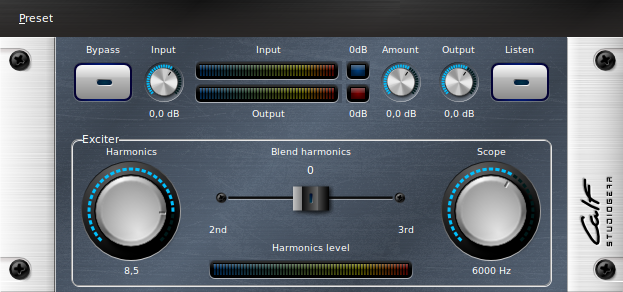
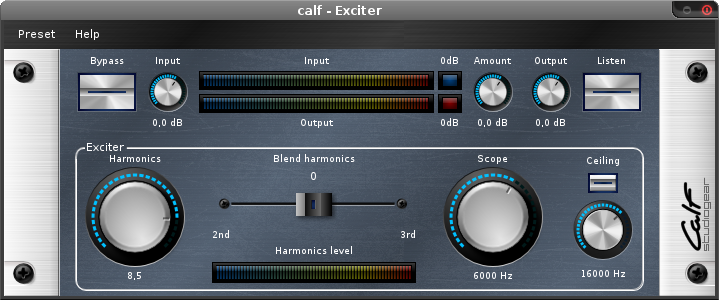
Manual updates from Markus.

diff --git a/doc/manuals/Multiband Limiter.html b/doc/manuals/Multiband Limiter.html
@@ -17,8 +17,12 @@
             </p>
             <h2>Tipps</h2>
             <p>
-                With the <strong>weight</strong> coefficient you can give importance to signals you don't want to loose in the limiting process. E.g. if your high-mid band (containing most of the vocals) starts fading in the background from now and then turn up its weight to let other bands process the gain reduction for reaching the desired limit. Your vocals will remain in the foreground even if heavy gain reduction is necessary. Values below zero will remove weight from a band and means "prefer this band when it comes to harder limitation". The weighting is affecting all bands equally, so setting all knobs to 1 has the same effect as having them all set to 0 - that is to say none.
+                With the <strong>weight</strong> coefficient you can give importance to signals you don't want to loose in the limiting process. E.g. if your high-mid band (containing most of the vocals) starts fading in the background from now and then turn up its weight to let other bands process the gain reduction for reaching the desired limit. Your vocals will remain in the foreground even if heavy gain reduction is necessary. Values below zero will remove weight from a band and means "prefer this band for gain reduction when it comes to harder limitation". The weighting is affecting all bands equally, so setting all knobs to 1 has the same effect as having them all set to 0 - that is to say none.
             </p>
+            <p>
+                The <strong>ASC</strong> (Automatic Smoothing Control) produces soft gain reduction even if the signal is reduced permanently. Normally the release time would try to reduce the gain reduction to 0 in the set time while a steady reduction (because of hard limiting) needs a release time to the average gain reduction instead of no gain reduction. The result is a slightly smoother signal even on heavy gain reduction. Control the ASC effect via the ASC Level setting. ASC depends on your release time settings and slightly extends the desired time value depending on the average gain reduction. Disabling ASC will result in a slightly higher loudness for the cost of some smoothness. It may be preferred on harsher material.
+            </p>
+
             <h2>Controls</h2>
             <ul>
                 <li><strong>Input (knob):</strong> Raise the volume before the signal is sent in the compression stage. If you have found some great settings but want to raise the overall loudness of the track simply increase this level.</li>
@@ -28,7 +32,7 @@
                 <li><strong>0dB (LED):</strong> Flashes if the level of the output signal raises above 0dB (it may clip your signal depending on your host and your systems' bitrate!)</li>
                 <li><strong>Output (knob):</strong> Raise the overall volume after the compression stage</li>
                 <li><strong>Bypass:</strong> Don't process anything, just bypass the signal</li>
-                
+
                 <li><strong>Split:</strong> Frequency to split between these strips</li>
                 <li><strong>S:</strong> Separate or overlap the frequencies of the neighbour bands</li>
                 <li><strong>Q:</strong> Raise the center frequency</li>
@@ -36,6 +40,8 @@
                 <li><strong>Lookahead:</strong> The Limiter will reach its attenuation level in this amount of time (output will be delayed two times this time)</li>
                 <li><strong>Min Release:</strong>Don't let the release time fall beneath 2.5 times the lowest possible wavelength per band</li>
                 <li><strong>Release:</strong> Come back from limiting to attenuation 1.0 in this amount of milliseconds</li>
+                <li><strong>ASC:</strong> When gain reduction is always needed ASC takes care of releasing to an average reduction level rather than reaching a reduction of 0 in the release time</li>
+                <li><strong>ASC Level:</strong> Select how much the release time is affected by ASC, 0 means nearly no changes in release time while 1 produces higher release times</li>
                 <li><strong>Release (per strip):</strong> Coefficient the master release time is computed with to have separate release times for each strip</li>
                 <li><strong>Weight:</strong> The "importance" of this strip in the resulting signal</li>
                 <li><strong>Solo:</strong> Hear single (or more) bands exclusively to set the crossover and the release times exactly</li>

diff --git a/doc/manuals/Bass Enhancer.html b/doc/manuals/Bass Enhancer.html
@@ -12,21 +12,33 @@
             <a href="images/Calf - Bass Enhancer.png" title="Calf - Bass Enhancer" class="thickbox"><img class="thumbnail" src="images/Calf - Bass Enhancer.png" /></a>
             <h2>Functionality</h2>
             <p>
-                
+                A Bass Enhancer is used to produce very low sound that is not present in the original signal. This is done by creating harmonic distortions of the signal which are restricted in range and added to the original signal. A Bass Enhancer raises the lower end of an audio signal without simply raising the lower frequencies like an equalizer would do to create a more "fat" or "boomy" sound.
             </p>
             <h2>Tipps</h2>
-            <p>
-                
-            </p>
+            <ul>
+                <li>Use the enhancer in the master channel of your audio suite to bring some low end, bassy or full sound to your mix</li>
+                <li>Add back some bass to old digitalized recordings</li>
+                <li>Let your bassdrum microphone produce big and bassy boom</li>
+                <li>Listen closely to the harmonics to not create "muddy" or "rumbling" low frequency range</li>
+                <li>Use the floor to narrow down the lower end to the required range</li>
+            </ul>
             <h2>Controls</h2>
             <ul>
                 <li><strong>Bypass:</strong> Don't process anything, just bypass the signal</li>
-                <li><strong>Input:</strong> Control the input level before the signal is processed</li>
-                <li><strong>In L/In R:</strong> The level after the input knob</li>
+                <li><strong>Input (knob):</strong> Control the input level before the signal is processed</li>
+                <li><strong>Input (V/U meter):</strong> The level after the input knob</li>
                 <li><strong>0dB:</strong> Flashes if input level rises above 0dB</li>
-                <li><strong>Output:</strong> Control the output of the plugin - clipping could destroy your signal</li>
-                <li><strong>Out L/Out R:</strong> The level after processing and after the output knob</li>
+                <li><strong>Output (knob):</strong> Control the output of the plugin - clipping could destroy your signal</li>
+                <li><strong>Output (V/U meter):</strong> The level after processing and after the output knob</li>
                 <li><strong>0dB:</strong> Flashes, if the signal rises about 0dB in the output stage</li>
+                <li><strong>Amount:</strong> The amount of harmonics added to the original signal</li>
+                <li><strong>Listen:</strong> Mute the original signal and listen to the harmonics exclusively</li>
+                <li><strong>Harmonics:</strong> The amount of newly created harmonics</li>
+                <li><strong>Blend Harmonics:</strong> The "colour" (or octave) of the harmonics</li>
+                <li><strong>Harmonics Level:</strong> The amount of created harmonics</li>
+                <li><strong>Scope:</strong> The frequency harmonics are produced above</li>
+                <li><strong>Floor (button):</strong> Constrain the enhancement on the lower end</li>
+                <li><strong>Floor (knob):</strong> The frequency no harmonics are produced below</li>
             </ul>
         </div>
     </body>

diff --git a/doc/manuals/Exciter.html b/doc/manuals/Exciter.html
@@ -12,21 +12,33 @@
             <a href="images/Calf - Exciter.png" title="Calf - Exciter" class="thickbox"><img class="thumbnail" src="images/Calf - Exciter.png" /></a>
             <h2>Functionality</h2>
             <p>
-                
+                An Exciter is used to produce high sound that is not present in the original signal. This is done by creating harmonic distortions of the signal which are restricted in range and added to the original signal. An Exciter raises the upper end of an audio signal without simply raising the higher frequencies like an equalizer would do to create a more "crisp" or "brilliant" sound.
             </p>
             <h2>Tipps</h2>
-            <p>
-                
-            </p>
+            <ul>
+                <li>Use the exciter in the master channel of your audio suite to bring some air, brilliance or brightness to your mix</li>
+                <li>Add back some brightness to old digitalized recordings</li>
+                <li>Let your overhead microphones project some shiny and crisp cymbals</li>
+                <li>Listen closely to the harmonics to not create "biting" or "nerving" high frequency range</li>
+                <li>Use the ceiling to narrow down the heights to the required range</li>
+            </ul>
             <h2>Controls</h2>
             <ul>
                 <li><strong>Bypass:</strong> Don't process anything, just bypass the signal</li>
-                <li><strong>Input:</strong> Control the input level before the signal is processed</li>
-                <li><strong>In L/In R:</strong> The level after the input knob</li>
+                <li><strong>Input (knob):</strong> Control the input level before the signal is processed</li>
+                <li><strong>Input (V/U meter):</strong> The level after the input knob</li>
                 <li><strong>0dB:</strong> Flashes if input level rises above 0dB</li>
-                <li><strong>Output:</strong> Control the output of the plugin - clipping could destroy your signal</li>
-                <li><strong>Out L/Out R:</strong> The level after processing and after the output knob</li>
+                <li><strong>Output (knob):</strong> Control the output of the plugin - clipping could destroy your signal</li>
+                <li><strong>Output (V/U meter):</strong> The level after processing and after the output knob</li>
                 <li><strong>0dB:</strong> Flashes, if the signal rises about 0dB in the output stage</li>
+                <li><strong>Amount:</strong> The amount of harmonics added to the original signal</li>
+                <li><strong>Listen:</strong> Mute the original signal and listen to the harmonics exclusively</li>
+                <li><strong>Harmonics:</strong> The amount of newly created harmonics</li>
+                <li><strong>Blend Harmonics:</strong> The "colour" (or octave) of the harmonics</li>
+                <li><strong>Harmonics Level:</strong> The amount of created harmonics</li>
+                <li><strong>Scope:</strong> The frequency harmonics are produced above</li>
+                <li><strong>Ceiling (button):</strong> Constrain the excitement on the upper end</li>
+                <li><strong>Ceiling (knob):</strong> The frequency no harmonics are produced above</li>
             </ul>
         </div>
     </body>

diff --git a/doc/manuals/About.html b/doc/manuals/About.html
@@ -14,15 +14,15 @@
             <p>
                 <strong>Calf Studiogear</strong> is designed to bring you a professional experience in music production to your free operating system. State-of-the-art effects and sound generators with a well designed user interface take open source audio processing to the next level.
                 <br/><br/>
-                The Calf plugins include all todays frequently used studio effects along with some feature-rich sound processors. As active development goes further this package will grow in functionality and {umfang}.
+                The Calf plugins include all todays frequently used studio effects along with some feature-rich sound processors. As active development goes further this package will grow in functionality over the time.
                 <br/><br/>
-                <strong>Calf Studiogear</strong> is designed to run under the most plugin standards in Linux, namely LV2, DSSI and LADSPA. So you're able to insert them in nearly every plugin-capable audio software like Ardour, Rosegarden and others.
+                <strong>Calf Studiogear</strong> is designed to run under the most flexible plugin standard in Linux, namely LV2. So you're able to insert them in lots of plugin-capable audio software like Ardour, Rosegarden and others.
                 <br/><br/>
                 The <strong>Calf Rack</strong> offers you all Calf effects and synthesizers in an easy-to-use studio rack. Wire the effects trough Jack to build your own studio environment and trigger the sound processors live or though a MIDI sequencer or tracker.
             </p>
             <div style="text-align:center"><img src="images/plugins.png" title="Calf plugins"/></div>
             <p>
-                <strong>Calf Studiogear</strong> is designed to be most flexible and wide-range in sound. That aspect sometimes decreases usability since all those one-knob-fits-all-effects are normally way to {beschränkt} in functionality and flexibility for professional audio production. Therefore Calf sometimes offers derivates with decreased but specialized functionality for a narrow range of jobs. Examples are the Exciter and Bass Enhancer plugs which are based on Saturator but offering a limited amount of control to make life easier on everyday tasks.
+                <strong>Calf Studiogear</strong> is designed to be most flexible and wide-range in sound. That aspect sometimes decreases usability since all those one-knob-fits-all-effects are normally way to restricted in functionality and flexibility for professional audio production. Therefore Calf sometimes offers derivates with decreased but specialized functionality for a narrow range of jobs. Examples are the Exciter and Bass Enhancer plugs which are based on Saturator but offering a limited amount of control to make life easier on everyday tasks.
                 <br/><br/>
                 The minimum or maximum settings of those derivates are mostly increased in range compared to commercial plugin suites to achieve a specialized interface with less limitations in usability and sound.
                 <br/><br/>
@@ -40,7 +40,7 @@
             </ul>
             <h2>Support</h2>
             <p>
-                
+
             </p>
             <h2>Participate</h2>
             <p>

diff --git a/doc/manuals/scripts/manual.js b/doc/manuals/scripts/manual.js
@@ -12,8 +12,8 @@ $(document).ready(function () {
         [
             "Synthesizer",
             [
-                ["(Organ)", "Organ.html", "images/Calf - Organ - Tone generator.png"],
-                ["(Monosynth)", "Monosynth.html", "images/Calf - Monosynth - Audio path.png"],
+                ["(Organ)", "Organ.html", "images/Calf - Organ - Tone Generator.png"],
+                ["(Monosynth)", "Monosynth.html", "images/Calf - Monosynth - Audio Path.png"],
             ]
         ],
         [
@@ -21,7 +21,7 @@ $(document).ready(function () {
             [
                 ["(Vintage Delay)", "Vintage Delay.html", "images/Calf - Vintage Delay.png"],
                 ["(Reverb)", "Reverb.html", "images/Calf - Reverb.png"],
-                ["(Multichorus)", "Multichorus.html", "images/Calf - Multichorus.png"],
+                ["(Multi Chorus)", "Multi Chorus.html", "images/Calf - Multi Chorus.png"],
                 ["(Flanger)", "Flanger.html", "images/Calf - Flanger.png"],
                 ["(Phaser)", "Phaser.html", "images/Calf - Phaser.png"],
             ]
@@ -34,7 +34,10 @@ $(document).ready(function () {
                 ["Multiband Compressor", "Multiband Compressor.html", "images/Calf - Multiband Compressor.png"],
                 ["Deesser", "Deesser.html", "images/Calf - Deesser.png"],
                 ["Limiter", "Limiter.html", "images/Calf - Limiter.png"],
-                ["Multiband Limiter", "Multiband Limiter.html", "images/Calf - Multiband Limiter.png"]
+                ["Multiband Limiter", "Multiband Limiter.html", "images/Calf - Multiband Limiter.png"],
+                ["Gate", "Gate.html", "images/Calf - Gate.png"],
+                ["Sidechain Gate", "Sidechain Gate.html", "images/Calf - Sidechain Gate.png"],
+                ["Multiband Gate", "Multiband Gate.html", "images/Calf - Multiband Gate.png"]
             ]
         ],
         [
@@ -53,14 +56,14 @@ $(document).ready(function () {
                 ["Pulsator", "Pulsator.html", "images/Calf - Pulsator.png"],
                 ["(Rotary Speaker)", "Rotary Speaker.html", "images/Calf - Rotary Speaker.png"],
                 ["(Saturator)", "Saturator.html", "images/Calf - Saturator.png"],
-                ["(Exciter)", "Exciter.html", "images/Calf - Exciter.png"],
-                ["(Bass Enhancer)", "Bass Enhancer.html", "images/Calf - Bass Enhancer.png"],
+                ["Exciter", "Exciter.html", "images/Calf - Exciter.png"],
+                ["Bass Enhancer", "Bass Enhancer.html", "images/Calf - Bass Enhancer.png"],
                 ["Mono Input", "Mono Input.html", "images/Calf - Mono Input.png"],
                 ["Stereo Tools", "Stereo Tools.html", "images/Calf - Stereo Tools.png"]
             ]
         ]
     ];
-        
+
     var header = '<div class="header"><img src="images/style_logo.png" align="middle" />';
     var menu = "";
     for(var i = 0; i < items.length; i++) {
@@ -83,5 +86,5 @@ $(document).ready(function () {
     $("body").prepend("<div class='headerbg'>" + header + "</div>");
     $(".index").prepend(menu);
     $("h2").append("&nbsp;&laquo;").prepend("&raquo;&nbsp;");
-    
+
 });

diff --git a/doc/manuals/Limiter.html b/doc/manuals/Limiter.html
@@ -24,7 +24,7 @@
                 <li><strong>0dB (LED):</strong> Flashes if the level of the output signal raises above 0dB (it may clip your signal depending on your host and your systems' bitrate!)</li>
                 <li><strong>Output (knob):</strong> Raise the overall volume after the compression stage</li>
                 <li><strong>Bypass:</strong> Don't process anything, just bypass the signal</li>
-                
+
                 <li><strong>Split:</strong> Frequency to split between these strips</li>
                 <li><strong>S:</strong> Separate or overlap the frequencies of the neighbour bands</li>
                 <li><strong>Q:</strong> Raise the center frequency</li>
@@ -32,9 +32,8 @@
                 <li><strong>Lookahead:</strong> The Limiter will reach its attenuation level in this amount of time (output will be delayed two times this time)</li>
                 <li><strong>Min Release:</strong>Don't let the release time fall beneath 2.5 times the lowest possible wavelength per band</li>
                 <li><strong>Release:</strong> Come back from limiting to attenuation 1.0 in this amount of milliseconds</li>
-                <li><strong>Release (per strip):</strong> Coefficient the master release time is computed with to have separate release times for each strip</li>
-                <li><strong>Weight:</strong> The "importance" of this strip in the resulting signal</li>
-                <li><strong>Solo:</strong> Hear single (or more) bands exclusively to set the crossover and the release times exactly</li>
+                <li><strong>ASC:</strong> When gain reduction is always needed ASC takes care of releasing to an average reduction level rather than reaching a reduction of 0 in the release time</li>
+                <li><strong>ASC Level:</strong> Select how much the release time is affected by ASC, 0 means nearly no changes in release time while 1 produces higher release times</li>
             </ul>
         </div>
     </body>

diff --git a/doc/manuals/scripts/style.css b/doc/manuals/scripts/style.css
@@ -25,13 +25,14 @@ h1 {
     text-align: center;
     margin: 20px;
 /*    border-bottom: 1px dotted #fff;*/
+    text-shadow: 0px -1px black;
 }
 h2 {
 /*    color: #D5F16A;*/
     color: white;
     font-size: 16px;
     font-weight: normal;
-    
+    text-shadow: 0px -1px black;
     padding: 5px 0 10px 0;
 }
 h3 {
@@ -63,11 +64,15 @@ strong {
     text-align: left;
 }
 .thumbnail {
-    width: 400px;
+    width: 320px;
     float: right;
     margin: 10px;
-    border: 2px solid black;
-    border-top: 12px solid black;
+/*    border: 2px solid black;*/
+/*    border-top: 12px solid black;*/
+    -moz-box-shadow:    0 3px 10px #000000;
+    -webkit-box-shadow: 0 3px 10px #000000;
+    box-shadow:         0 3px 10px #000000;
+
 }
 
 .headerbg {
@@ -79,13 +84,17 @@ strong {
     margin: auto;
     text-align: left;
     font-size: 9px;
+    position: relative;
 }
 .header img {
     margin: 8px;
-    float: left;
+    position: absolute;
+    left: 0px;
+    bottom: 10px;
 }
 .header .menu {
     float: left;
+    text-transform:uppercase;
 }
 .header .menu h3 {
     margin: 5px;
@@ -138,8 +147,11 @@ strong {
     top: auto;
     left: 5px;
     text-align: center;
-    border: 1px solid black;
-    border-top: 5px solid black;
+/*    border: 1px solid black;*/
+/*    border-top: 5px solid black;*/
+    -moz-box-shadow:    0 3px 10px #000000;
+    -webkit-box-shadow: 0 3px 10px #000000;
+    box-shadow:         0 3px 10px #000000;
 }
 .index img {
     width: 140px;
@@ -159,7 +171,7 @@ strong {
     text-align: center;
 }
 .index li:hover {
-    
+
 }
 
 .inactive {

diff --git a/doc/manuals/Calf.html b/doc/manuals/Calf.html
@@ -14,6 +14,12 @@
             <p>
                 The Rack is the heart of Calf. Here you can load synthesizers and effect plugins to wire them trough Jack.<br /><br /> To add a plugin click on "Add plugin" in the menu and choose one from the list.<br /><br /> Every plugin added will be represented as a rack gear which provides some basic information like in and out levels and MIDI traffic.<br /><br /> The "Edit" button will raise the GUI of the plugin. Once open the same button closes the plugin window again. If you close the window of a plugin with the window buttons it isn't removed from the rack.<br /><br /> To remove a plugin from the rack simply click on the "Remove" button.
             </p>
+            <h2>Layout</h2>
+            <p>
+                In the preferences you can choose to float the rack entries horizontally or vertically and break after a defined amount of devices. The example shows a horizontal float with a size of 2.
+            </p>
+            <p>
+                If you don't want to waste space with the rack ears you may want to disable them in the preferences of the Calf Rack. This counts for the plug-ins, too.
             <h2>Presets</h2>
             <p>
                 If you use the Calf Rack to launch your plugins you can load and create presets inside every effect or synthesizer. To do so click on the "<strong>Presets</strong>" entry in the menu on top of the plugin. To load a preset choose one from the list. To create a new one or to overwrite an existing preset select "save" from the menu.

diff --git a/doc/manuals/Monosynth.html b/doc/manuals/Monosynth.html
@@ -9,14 +9,14 @@
     <body>
         <div class="wrapper">
             <h1>Monosynth</h1>
-            <a href="images/Calf - Monosynth - Audio path.png" title="Calf - Monosynth - Audio path" class="thickbox"><img class="thumbnail" src="images/Calf - Monosynth - Audio path.png" /></a>
+            <a href="images/Calf - Monosynth - Audio Path.png" title="Calf - Monosynth - Audio Path" class="thickbox"><img class="thumbnail" src="images/Calf - Monosynth - Audio Path.png" /></a>
             <h2>Functionality</h2>
             <p>
-                
+
             </p>
             <h2>Tipps</h2>
             <p>
-                
+
             </p>
             <h2>Controls</h2>
             <ul>

diff --git a/doc/manuals/Organ.html b/doc/manuals/Organ.html
@@ -9,14 +9,14 @@
     <body>
         <div class="wrapper">
             <h1>Organ</h1>
-            <a href="images/Calf - Organ - Tone generator.png" title="Calf - Organ - Tone generator" class="thickbox"><img class="thumbnail" src="images/Calf - Organ - Tone generator.png" /></a>
+            <a href="images/Calf - Organ - Tone generator.png" title="Calf - Organ - Tone Generator" class="thickbox"><img class="thumbnail" src="images/Calf - Organ - Tone Generator.png" /></a>
             <h2>Functionality</h2>
             <p>
-                
+
             </p>
             <h2>Tipps</h2>
             <p>
-                
+
             </p>
             <h2>Controls</h2>
             <ul>
